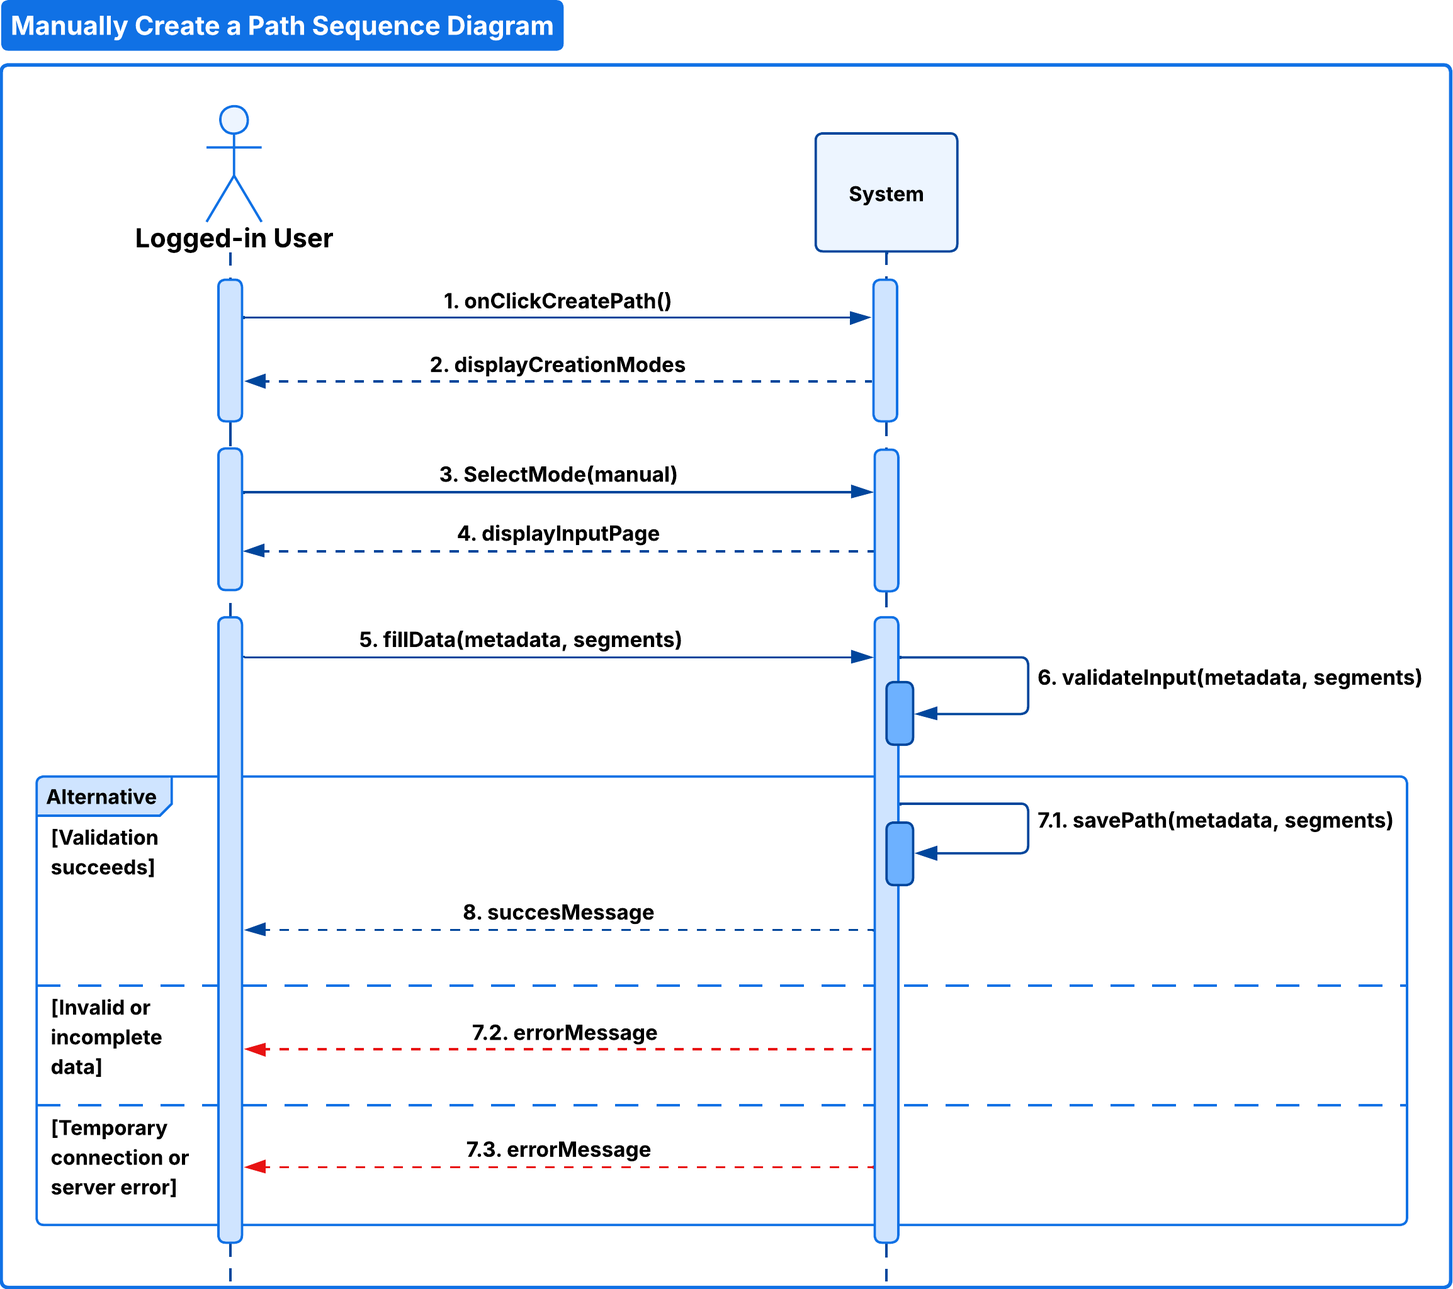
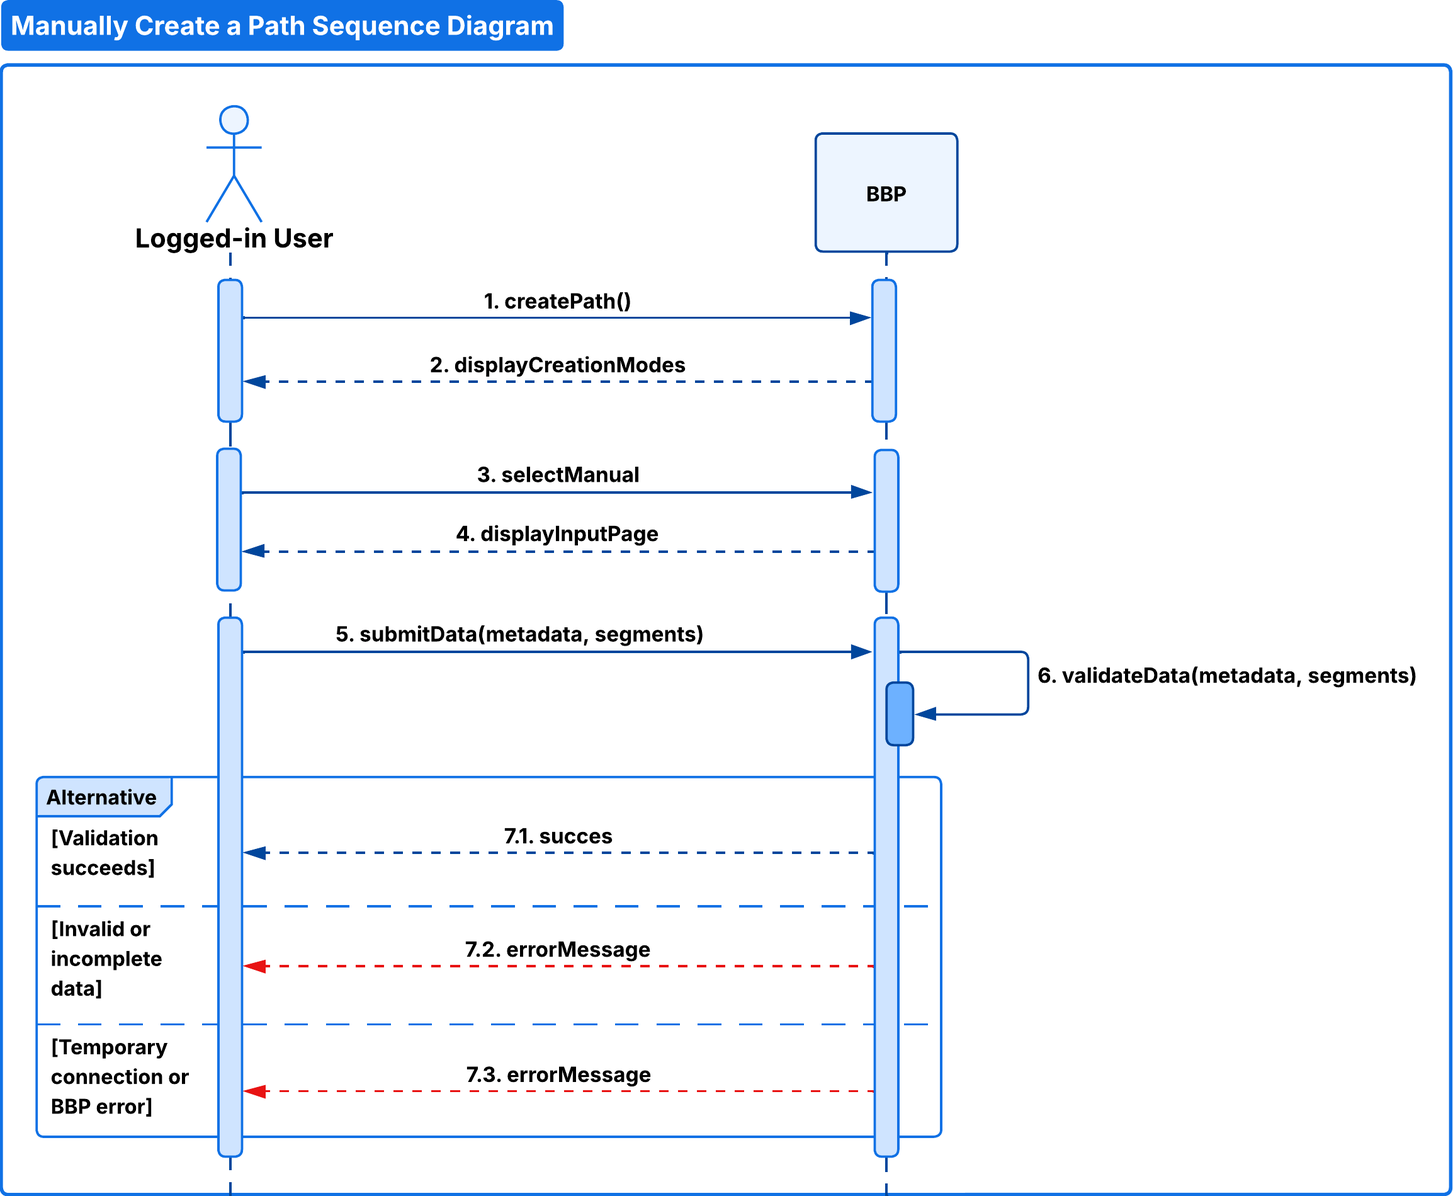
Update sequence diagrams for user registration, login, logout, path creation, and add delete path and start trip diagrams

diff --git a/RASD/Files/specific_requirements.tex b/RASD/Files/specific_requirements.tex
@@ -43,11 +43,11 @@
 		                         & 2. The system displays the registration form.                                                            \\
 		                         & 3. The actor fills in the required personal information (e.g., name, email, password).                   \\
 		                         & 4. The system validates the provided data.                                                               \\
-		                         & 5. If validation succeeds, the system creates a new account and send a success message.                  \\ \hline
+		                         & 5. If validation succeeds, the system creates a new account and redirects the actor to the welcome page. \\ \hline
 		\textbf{Exit Condition}  & A new user account is created.                                                                           \\ \hline
 		\textbf{Exceptions}      & If the data are invalid or incomplete, the system displays an error message and requests correction.     \\
 		                         & If the email is already registered, the system displays an error message and prompts the user to log in. \\
-		                         & If a temporary connection or server error occurs, the system displays an appropriate error message.      \\ \hline
+		                         & If a temporary connection or BBP error occurs, the system displays an appropriate error message.         \\ \hline
 		\textbf{Notes}           & The entered password is stored in a hashed form for security purposes.                                   \\ \hline
 	\end{tabularx}
 	\caption{User Registration Process Detail}
@@ -74,11 +74,11 @@
 		                         & 2. The system displays the login form.                                                                                           \\
 		                         & 3. The actor enters valid credentials (email and password).                                                                      \\
 		                         & 4. The system validates the credentials against the stored data.                                                                 \\
-		                         & 5. If validation succeeds, the system authenticates the user, initiates a session, and sends a success message.                  \\ \hline
+		                         & 5. If validation succeeds, the system authenticates the user and redirects them to the home page.                                \\ \hline
 		\textbf{Exit Condition}  & The actor is successfully authenticated.                                                                                         \\ \hline
 		\textbf{Exceptions}      & If the credentials are invalid or incomplete, the system displays an error message and prevents access until corrected.          \\
 		                         & If the credentials are unrecognized,  the system displays an error message and allows another login attempt.                     \\
-		                         & If there is a temporary connection or server error,  the system displays an error message and allows retry.                      \\ \hline
+		                         & If a temporary connection or BBP error occurs,  the system displays an error message and allows retry.                           \\ \hline
 		\textbf{Notes}           & After login, a valid session or authentication token is created; the session expires automatically after a period of inactivity. \\ \hline
 	\end{tabularx}
 	\caption{User Log In Process Detail}
@@ -97,18 +97,14 @@
 	\label{tab:UC3}
 	\begin{tabularx}{\textwidth}{|p{0.3\textwidth}|X|}
 		\hline
-		\textbf{Actor(s)}        & Logged-in User                                                                                                                                                          \\ \hline
-		\textbf{Entry Condition} & The actor is authenticated and currently using the application (any page).                                                                                              \\ \hline
-		\textbf{Event Flow}      & 1. The actor clicks on the hamburger menu.                                                                                                                              \\
-		                         & 2. The system displays the menu with the “Log out” option.                                                                                                              \\
-		                         & 3. The actor selects the “Log out” option.                                                                                                                              \\
-		                         & 4. The system prompts the actor to confirm the logout action.                                                                                                           \\
-		                         & 5. The system invalidates the current session.                                                                                                                          \\
-		                         & 6. The system clears user-specific local data and cached preferences as required.                                                                                       \\
-		                         & 7. The system redirects the actor to the welcome page and displays a confirmation message.                                                                              \\ \hline
-		\textbf{Exit Condition}  & The actor is successfully logged out.                                                                                                                                   \\ \hline
-		\textbf{Exceptions}      & If the server cannot invalidate the session or the network is unavailable (temporary error), the system displays an error message and prompts the actor to retry later. \\ \hline
-		\textbf{Notes}           & Access tokens are revoked; next access requires re-authentication.                                                                                                      \\ \hline
+		\textbf{Actor(s)}        & Logged-in User                                                                                                                                 \\ \hline
+		\textbf{Entry Condition} & The actor is authenticated and is on his account page.                                                                                         \\ \hline
+		\textbf{Event Flow}      & 1. The actor clicks on the “Log out” option.                                                                                                   \\
+		                         & 2. The system disconnects the actor from the current session.                                                                                  \\
+		                         & 3. The system clears user-specific local data, and redirects the actor to the welcome page.                                                    \\ \hline
+		\textbf{Exit Condition}  & The actor is successfully logged out.                                                                                                          \\ \hline
+		\textbf{Exceptions}      & If BBP cannot invalidate the session or the network is unavailable, the system displays an error message and prompts the actor to retry later. \\ \hline
+		\textbf{Notes}           & Access tokens are revoked; next access requires re-authentication.                                                                             \\ \hline
 	\end{tabularx}
 	\caption{User Log Out Process Detail}
 \end{table}
@@ -130,14 +126,13 @@
 		\textbf{Entry Condition} & The actor is on the home page and wants to find a bike path.                                                        \\ \hline
 		\textbf{Event Flow}      & 1. The actor selects the “Search” option.                                                                           \\
 		                         & 2. The system displays the search panel.                                                                            \\
-		                         & 3. The actor enters the start and destination points.                                                               \\
+		                         & 3. The actor enters start and destination points.                                                                   \\
 		                         & 4. The system validates the provided inputs.                                                                        \\
-		                         & 5. The system activates the Path Suggestion process to find possible routes.                                        \\
-		                         & 6. The system displays the list of suggested routes to the actor.                                                   \\ \hline
+		                         & 5. The system displays the list of suggested routes to the actor.                                                   \\ \hline
 		\textbf{Exit Condition}  & The suggested routes are displayed to the actor.                                                                    \\ \hline                                                        \\ \hline
 		\textbf{Exceptions}      & If the inputs are invalid or incomplete,  the system displays an error message and prevents search until corrected. \\
 		                         & If no route is found, the system displays an error message and suggests adjusting inputs/filters.                   \\
-		                         & If there is a temporary connection or server error, the system displays an error message and allows retry.          \\ \hline
+		                         & If there is a temporary connection or BBP error, the system displays an error message and allows retry.             \\ \hline
 		\textbf{Notes}           & None.                                                                                                               \\ \hline
 	\end{tabularx}
 	\caption{Search for a Path Process Detail}
@@ -163,7 +158,7 @@
 		                         & 3. The actor confirms the selection.                                                                                         \\ \hline
 		\textbf{Exit Condition}  & The path is selected. The system is ready to start the trip.                                                                 \\ \hline
 		\textbf{Exceptions}      & If the selected path is unavailable (removed/updated), the system displays an error message and returns to the results list. \\
-		                         & If there is a temporary connection or server error, the system displays an error message and allows retry.                   \\ \hline
+		                         & If a temporary connection or BBP error occurs, the system displays an error message and allows retry.                        \\ \hline
 		\textbf{Notes}           & Only Logged-in Users can store trip data; Guest Users can follow the path without recording.                                 \\ \hline
 	\end{tabularx}
 	\caption{Select a Path Process Detail}
@@ -190,12 +185,11 @@
 		                         & 4. The system displays the input page for manual creation (metadata + map editor).                                                                        \\
 		                         & 5. The actor fills in metadata (e.g., name, description, visibility) and draws/adds segments on the map.                                                  \\
 		                         & 6. The system validates the provided metadata and the geometry of the segments.                                                                           \\
-		                         & 7. If validation succeeds, the system saves the path.                                                                                                     \\
-		                         & 8. The system displays a success message and the new path appears in the actor's path list.                                                               \\ \hline
-		\textbf{Exit Condition}  & The new path is successfully created, stored in the database, and associated with the actor’s account.                                                    \\ \hline
+		                         & 7. If validation succeeds, the system saves the path that will appears in the actor's path list.                                                          \\ \hline
+		\textbf{Exit Condition}  & The new path is successfully created and associated with the actor’s account.                                                                             \\ \hline
 		\textbf{Exceptions}      & If the data is invalid or incomplete, the system displays an error message and prevents saving until corrected.                                           \\
 		                         & If the geometry is invalid (e.g., disconnected segments, self-intersections), the system displays an error message and prompts the actor to fix the path. \\
-		                         & If there is a temporary connection or server error, the system displays an error message and allows retry.                                                \\ \hline
+		                         & If there is a temporary connection or system error, the system displays an error message and allows retry.                                                \\ \hline
 		\textbf{Notes}           & The path visibility follows the selected setting. Geometry validation includes continuity and consistency checks.                                         \\ \hline
 	\end{tabularx}
 	\caption{Create a Path in Manual Mode — Process Detail}
@@ -225,12 +219,11 @@
 		                         & 7. If the validation succeeds, the system confirms readiness and starts GPS tracking.                                                                      \\
 		                         & 8. The system continuously collects geo-coordinates from the GPS while the actor is moving.                                                                \\
 		                         & 9. Once tracking stops, the system validates the recorded GPS data.                                                                                        \\
-		                         & 10. If validation succeeds, the system saves the new path.                                                                                                 \\
-		                         & 11. The system displays a success message confirming the path creation.                                                                                    \\ \hline
+		                         & 10. If validation succeeds, the system saves the new path.                                                                                                 \\ \hline
 		\textbf{Exit Condition}  & The automatically recorded path is successfully validated and stored in the database, associated with the actor’s account.                                 \\ \hline
 		\textbf{Exceptions}      & If the data is invalid or incomplete, the system displays an error message and prevents saving until corrected.                                            \\
 		                         & If GPS signal is lost or unstable, the system displays an error message and prompts the actor to retry.                                                    \\
-		                         & If temporary connection or server error occurs, the system displays an error message and and allows retry later.                                           \\ \hline
+		                         & If temporary connection or system error occurs, the system displays an error message and allows retry later.                                               \\ \hline
 		\textbf{Notes}           & The system continuously records and buffers GPS data locally during tracking. Only after successful validation is the path permanently stored server-side. \\ \hline
 	\end{tabularx}
 	\caption{Create a Path in Automatic Mode — Process Detail}
@@ -242,6 +235,91 @@
 	\caption{Create a Path in Automatic Mode — Sequence Diagram}
 	\label{fig:use_case_create_path_automatic}
 \end{figure}
+
+\textbf{[UC8]} - Delete a Path
+\begin{table}[H]
+	\centering
+	\label{tab:UC8}
+	\begin{tabularx}{\textwidth}{|p{0.3\textwidth}|X|}
+		\hline
+		\textbf{Actor(s)}        & Logged-in User                                                                                              \\ \hline
+		\textbf{Entry Condition} & The actor is authenticated and wants to remove one of their previously created paths.                       \\ \hline
+		\textbf{Event Flow}      & 1. The actor accesses the “My Paths” section.                                                               \\
+		                         & 2. The system displays the list of the actor’s paths.                                                       \\
+		                         & 3. The actor selects a path and requests its deletion.                                                      \\
+		                         & 4. The system processes the request and deletes the corresponding path.                                     \\ \hline
+		\textbf{Exit Condition}  & The selected path is permanently deleted and no longer visible in the actor’s list.                         \\ \hline
+		\textbf{Exceptions}      & If a temporary connection or BBP error occurs, the system displays an error message and allows retry later. \\ \hline
+		\textbf{Notes}           & Deletion is irreversible. Only the creator of the path can perform this operation.                          \\ \hline
+	\end{tabularx}
+	\caption{Delete a Path — Process Detail}
+\end{table}
+
+\begin{figure}[H]
+	\centering
+	\includegraphics[width=0.7\textwidth]{Images/SequenceDiagrams/delete_path.png}
+	\caption{Delete a Path — Sequence Diagram}
+	\label{fig:use_case_delete_path}
+\end{figure}
+
+\textbf{[UC9]} - Start a Trip as Guest User
+\begin{table}[H]
+	\centering
+	\label{tab:UC9}
+	\begin{tabularx}{\textwidth}{|p{0.3\textwidth}|X|}
+		\hline
+		\textbf{Actor(s)}        & Guest User                                                                                                                               \\ \hline
+		\textbf{Entry Condition} & The actor has selected a path and wants to follow it without authentication.                                                             \\ \hline
+		\textbf{Event Flow}      & 1. The actor chooses to start the selected path.                                                                                         \\
+		                         & 2. The system initializes the trip visualization and displays the path on the map.                                                       \\
+		                         & 3. The actor activates sends real-time location data.                                                                                    \\
+		                         & 4. The system continuously updates the actor’s position on the map during the trip.                                                      \\ \hline
+		\textbf{Exit Condition}  & The trip visualization ends when the actor stops the trip or leaves the page; no trip data are stored.                                   \\ \hline
+		\textbf{Exceptions}      & If the GPS signal or connection to BBP fails, the system displays an error message and allows retry.                                     \\ \hline
+		\textbf{Notes}           & Guest Users can only visualize their current location relative to the selected path; no recording, statistics, or reports are generated. \\ \hline
+	\end{tabularx}
+	\caption{Start a Trip as Guest User — Process Detail}
+\end{table}
+
+\begin{figure}[H]
+	\centering
+	\includegraphics[width=0.7\textwidth]{Images/SequenceDiagrams/start_trip_guest.png}
+	\caption{Start a Trip as Guest User — Sequence Diagram}
+	\label{fig:use_case_start_trip_guest}
+\end{figure}
+
+
+\textbf{[UC10]} - Start a Trip as a Logged-in User
+\begin{table}[H]
+	\centering
+	\label{tab:UC10}
+	\begin{tabularx}{\textwidth}{|p{0.3\textwidth}|X|}
+		\hline
+		\textbf{Actor(s)}        & Logged-in User                                                                                                                                                             \\ \hline
+		\textbf{Entry Condition} & The actor has selected a path and intends to start a trip.                                                                                                                 \\ \hline
+		\textbf{Event Flow}      & 1. The actor chooses to start the selected path.                                                                                                                           \\
+		                         & 2. The system displays the available data acquisition modes (Manual or Automatic).                                                                                         \\
+		                         & 3. The actor selects one of the two modes:                                                                                                                                 \\
+		                         & \hspace{1em} \textbf{Automatic mode:} the system connects to external devices (e.g., GPS, gyroscope, accelerometer) for real-time data collection and automatic reporting. \\
+		                         & \hspace{1em} \textbf{Manual mode:} the system enables manual entry of relevant trip data (e.g., condition reports, notes).                                                 \\
+		                         & 4. The system initializes the chosen mode and gets the GPS position.                                                                                                       \\
+		                         & 5. The system starts the trip and begins data collection.                                                                                                                  \\ \hline
+		\textbf{Exit Condition}  & The trip is successfully started; the chosen recording mode is active.                                                                                                     \\ \hline
+		\textbf{Exceptions}      & If GPS or sensor services are unavailable, the system displays an error and allows switching to Manual mode.                                                               \\
+		                         & If a temporary connection or BBP error occurs, the system displays an error message and allows retry.                                                                      \\ \hline
+		\textbf{Notes}           & The selected recording mode remains active until the trip ends; changing mode requires restarting the trip.                                                                \\ \hline
+	\end{tabularx}
+	\caption{Start a Trip (Logged-in User) — Process Detail}
+\end{table}
+
+\begin{figure}[H]
+	\centering
+	\includegraphics[width=0.7\textwidth]{Images/SequenceDiagrams/start_trip_loggedin.png}
+	\caption{Start a Trip (Logged-in User) — Sequence Diagram}
+	\label{fig:use_case_start_trip_loggedin}
+\end{figure}
+
+
 
 
 % --------------------------------------------------------------------------
